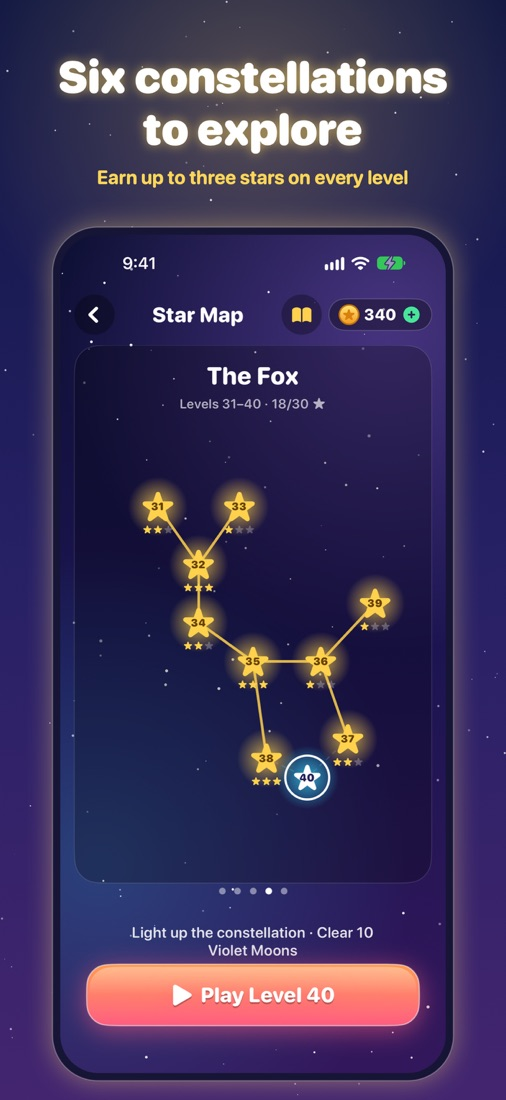
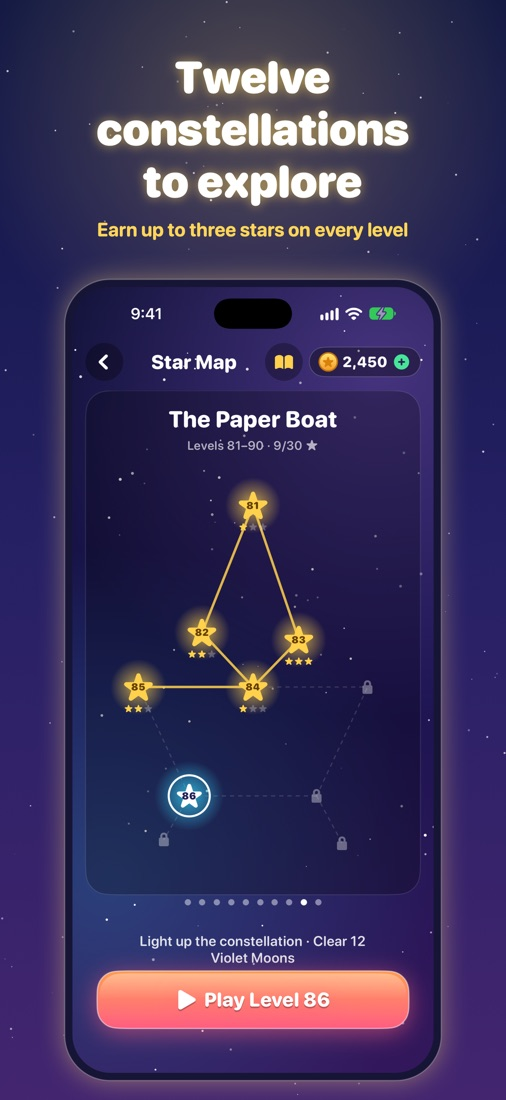
Skyfill Squares: privacy policy for AdMob ads; twelve constellations, styles and My Constellation

Changed region(s): [[0.0889, 0.0309, 0.919, 0.9891], [0.2964, 0.68, 0.4447, 0.7727], [0.6522, 0.7418, 0.6818, 0.7727]]

diff --git a/skyfill/index.html b/skyfill/index.html
@@ -50,7 +50,7 @@
     <img src="assets/shot-shine.jpg" width="506" height="1100" loading="lazy" alt="Watch your sky shine: the Teacup constellation flares when its last star lights">
     <img src="assets/shot-meteor.jpg" width="506" height="1100" loading="lazy" alt="Beware the meteor shower: glowing rings show where rocks will land">
     <img src="assets/shot-spin.jpg" width="506" height="1100" loading="lazy" alt="Spin pieces to fit: tap a piece to turn it">
-    <img src="assets/shot-map.jpg" width="506" height="1100" loading="lazy" alt="Six constellations to explore: the Star Map">
+    <img src="assets/shot-map.jpg" width="506" height="1100" loading="lazy" alt="Twelve constellations to explore: the Star Map">
     <img src="assets/shot-atlas.jpg" width="506" height="1100" loading="lazy" alt="Collect every star story: the Sky Atlas">
   </div>
 
@@ -67,14 +67,16 @@
         <div class="card"><div class="kicker">Supernovas</div><h3>Match the colours</h3><p>Clear a line all of one colour for a Supernova worth double.</p></div>
         <div class="card"><div class="kicker">Journey</div><h3>Level after level</h3><p>Light stars, free crystals and collect colours to earn up to three stars a level, and finish each constellation to unlock its story in your Sky Atlas.</p></div>
         <div class="card"><div class="kicker">Classic</div><h3>Endless play</h3><p>Chase your best score. Each constellation you complete pays a bonus, and the next one rises.</p></div>
+        <div class="card"><div class="kicker">Styles</div><h3>Make it yours</h3><p>Spend your coins on new looks: skies from rippling auroras to the Milky Way, blocks from cut gems to tiny ringed planets, and boards of brass, driftwood and ice.</p></div>
+        <div class="card"><div class="kicker">My Constellation</div><h3>Draw your own</h3><p>Buy stars with your coins, place them, join them with lines and give your constellation a name. Then watch it rise in Classic.</p></div>
       </div>
     </div>
   </section>
 
   <section>
     <div class="wrap">
-      <h2>Six constellations, six stories</h2>
-      <p>All of them original, drawn for the game. Finish one in Journey and its story joins your Sky Atlas.</p>
+      <h2>Twelve constellations, twelve stories</h2>
+      <p>All of them original, drawn for the game: 120 levels before any repeat, with more in every update. Finish one in Journey and its story joins your Sky Atlas.</p>
       <ul class="stars">
         <li><strong>The Lantern</strong><span>Hung in the sky so no ship is lost at night.</span></li>
         <li><strong>The Kite</strong><span>Its string broke, and the wind tied it to the stars.</span></li>
@@ -82,6 +84,12 @@
         <li><strong>The Fox</strong><span>Still running with a spark stolen from the sun.</span></li>
         <li><strong>The Lighthouse</strong><span>Sweeping every sea at once.</span></li>
         <li><strong>The Whale</strong><span>Singing so low that only the moon can hear.</span></li>
+        <li><strong>The Owl</strong><span>Keeping watch while the world sleeps.</span></li>
+        <li><strong>The Harp</strong><span>Strummed by the north wind to wake the dawn.</span></li>
+        <li><strong>The Paper Boat</strong><span>Sailing wherever a child dreams.</span></li>
+        <li><strong>The Hourglass</strong><span>Turning one night's sand into the next night's stars.</span></li>
+        <li><strong>The Dragonfly</strong><span>Carrying messages between the stars, never late.</span></li>
+        <li><strong>The Crown</strong><span>A jewel for every kingdom of the night.</span></li>
       </ul>
     </div>
   </section>
@@ -91,7 +99,7 @@
       <h2>Made for everyone</h2>
       <div class="grid">
         <div class="card"><div class="kicker">Clear to see</div><h3>Symbols as well as colours</h3><p>Every colour has its own symbol (star, moon, heart, gem, leaf, drop), so you never need to tell colours apart.</p></div>
-        <div class="card"><div class="kicker">At your pace</div><h3>No timers</h3><p>Think as long as you like. Tips appear the first time you meet something new.</p></div>
+        <div class="card"><div class="kicker">At your pace</div><h3>No timers</h3><p>Think as long as you like. A short walkthrough shows you the basics, and tips appear the first time you meet something new.</p></div>
         <div class="card"><div class="kicker">Anywhere</div><h3>Plays offline</h3><p>No account and no sign-in. Your progress stays on your phone.</p></div>
       </div>
     </div>
@@ -101,7 +109,7 @@
     <div class="wrap">
       <h2>Questions</h2>
       <details><summary>Which iPhones does it run on?</summary><p>Any iPhone with iOS 17 or later.</p></details>
-      <details><summary>Is it free?</summary><p>Yes. The game is free to play, with ads. Optional in-app purchases include a one-time Remove Ads and packs of coins for boosters.</p></details>
+      <details><summary>Is it free?</summary><p>Yes. The game is free to play, with ads. Optional in-app purchases include a one-time Remove Ads and packs of coins, which you can spend on boosters, styles and stars for your own constellation. Every coin can also be earned by playing.</p></details>
       <details><summary>Does it work offline?</summary><p>Yes. Every mode plays without a connection.</p></details>
       <details><summary>What does the game know about me?</summary><p>See the <a href="privacy.html">privacy policy</a>.</p></details>
       <details><summary>I bought Remove Ads. How do I get it on a new phone?</summary><p>Open Settings in the game and tap Restore Purchases.</p></details>

diff --git a/skyfill/privacy.html b/skyfill/privacy.html
@@ -4,7 +4,7 @@
   <meta charset="utf-8">
   <meta name="viewport" content="width=device-width, initial-scale=1">
   <title>Privacy Policy · Skyfill Squares</title>
-  <meta name="description" content="Skyfill Squares collects no personal data: no account, no analytics, no tracking.">
+  <meta name="description" content="What Skyfill Squares does with your information: no account or analytics, and ads from Google AdMob.">
   <meta name="theme-color" content="#0d0f33">
   <link rel="icon" href="assets/favicon.png">
   <link rel="stylesheet" href="style.css?v=1">
@@ -19,16 +19,23 @@
 
   <main class="wrap page">
     <h1>Privacy Policy</h1>
-    <p class="note">Last updated: November 14, 2026.</p>
+    <p class="note">Last updated: November 16, 2026.</p>
 
-    <p>Skyfill Squares is a puzzle game for iPhone made by Appy Hour Studios, LLC. This policy explains what the game does with your information. The short version: <strong>we don't collect any personal data.</strong> There's no account, no analytics and no tracking.</p>
+    <p>Skyfill Squares is a puzzle game for iPhone made by Appy Hour Studios, LLC. This policy explains what the game does with your information. The short version: <strong>we don't collect any personal data ourselves.</strong> There's no account and no analytics. The game shows ads from Google AdMob, and Google collects some information to show them, as described below.</p>
 
     <h2>What stays on your phone</h2>
-    <p>Your levels, stars, scores, coins, boosters, settings and the constellations you've completed are stored on your phone. We never see them. Deleting the game deletes them.</p>
+    <p>Your levels, stars, scores, coins, boosters, styles, settings, the constellations you've completed and the ones you've built yourself are stored on your phone. We never see them. Deleting the game deletes them.</p>
 
     <h2>Ads</h2>
-    <!-- Must be rewritten (with a new date) before a release that uses an ad network: name the network, what it collects (advertising identifiers, device and usage data), App Tracking Transparency, and links to its policy. -->
-    <p>The game shows ads between games and offers optional videos for rewards. These ads are shown by the game itself. No information about you is sent to an advertising company, and the game doesn't ask to track you.</p>
+    <p>The game shows an ad between some games and offers optional videos for rewards. These ads come from <strong>Google AdMob</strong>, an advertising service run by Google. To show ads, measure them and prevent fraud, Google's software in the game may collect:</p>
+    <ul>
+      <li>your device's advertising identifier, but only if you allow tracking (see below);</li>
+      <li>your IP address, and from it an approximate location;</li>
+      <li>information about your device, such as its model, operating system and language;</li>
+      <li>which ads were shown and whether you tapped them.</li>
+    </ul>
+    <p><strong>Your choices.</strong> Where the law requires it (for example in the UK and the European Economic Area), the game asks for your consent with Google's own consent form the first time it opens. You can change your answer at any time under <strong>Settings &gt; Privacy choices</strong> in the game. The game also shows Apple's <strong>Allow app to track</strong> prompt. If you choose <em>Ask App Not to Track</em>, Google doesn't receive your advertising identifier and the ads you see are less personalised. You can change this later in your iPhone's Settings under Privacy &amp; Security &gt; Tracking.</p>
+    <p>Google's use of this information is covered by Google's privacy policy, including <a href="https://policies.google.com/technologies/partner-sites">how Google uses information from sites or apps that use its services</a>. Buying Remove Ads or the Starter Pack stops the ads between games. The optional reward videos stay available if you want them.</p>
 
     <h2>Purchases</h2>
     <p>Remove Ads, the Starter Pack and coin packs are bought through the App Store. Apple handles the payment. We receive no payment details, only Apple's confirmation that the purchase was made.</p>
@@ -37,7 +44,7 @@
     <p>If the game crashes, iOS may make a diagnostic report. If you've turned on <strong>Share With App Developers</strong> in your iPhone's Analytics settings, Apple may share anonymous crash reports with us. Those reports contain no personal information.</p>
 
     <h2>Children</h2>
-    <p>The game is rated 4+ and collects no personal data from anyone, including children.</p>
+    <p>We collect no personal data from anyone, including children. The game is not directed at children under 13.</p>
 
     <h2>Changes</h2>
     <p>If this policy changes, the new version will be posted on this page with a new date.</p>

diff --git a/skyfill/support.html b/skyfill/support.html
@@ -33,18 +33,18 @@
       <li><strong>Meteor showers:</strong> glowing rings show where rocks will land after your next move. Clear the rocks for a bonus.</li>
       <li><strong>Comet:</strong> clearing lines fills the Comet meter. Drop the Comet on any square to clear its row and column.</li>
     </ul>
-    <p>The full rules are in the game under Settings &gt; How to Play.</p>
+    <p>To see the basics again, open Settings in the game and tap <strong>Play the Walkthrough</strong>. The full rules are under Settings &gt; How to Play.</p>
 
     <h2>Purchases</h2>
     <ul>
       <li><strong>Restoring Remove Ads</strong> on a new phone or after reinstalling: in the game, open Settings, then tap Restore Purchases. You need to be signed in with the Apple Account that bought it.</li>
-      <li><strong>Coins and boosters</strong> are used up as you play, so they can't be restored.</li>
+      <li><strong>Coins, boosters, styles and the stars in your own constellations</strong> are bought with coins and saved on your phone, so they can't be restored from the App Store.</li>
       <li><strong>Refunds</strong> are handled by Apple, at <a href="https://reportaproblem.apple.com">reportaproblem.apple.com</a>.</li>
     </ul>
 
     <h2>Your progress</h2>
     <ul>
-      <li>Your levels, stars, coins and boosters are saved on your phone (and in your iPhone's own backup). They don't sync between devices, and deleting the game resets them.</li>
+      <li>Your levels, stars, coins, boosters, styles and constellations are saved on your phone (and in your iPhone's own backup). They don't sync between devices, and deleting the game resets them.</li>
       <li>Stuck on a level? Try again: the pieces you're dealt change each time, and boosters and spins can get you out of a tight spot.</li>
     </ul>
   </main>
